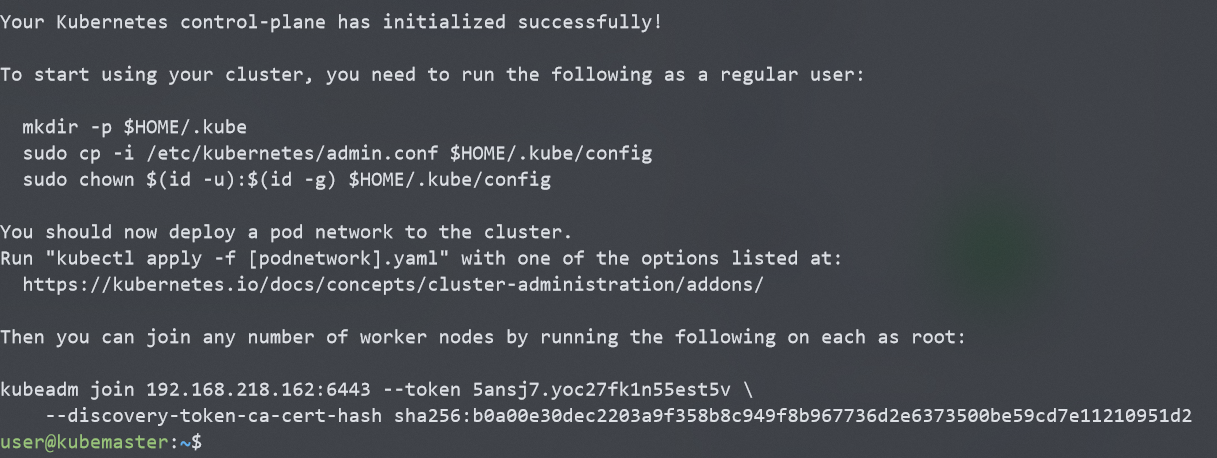
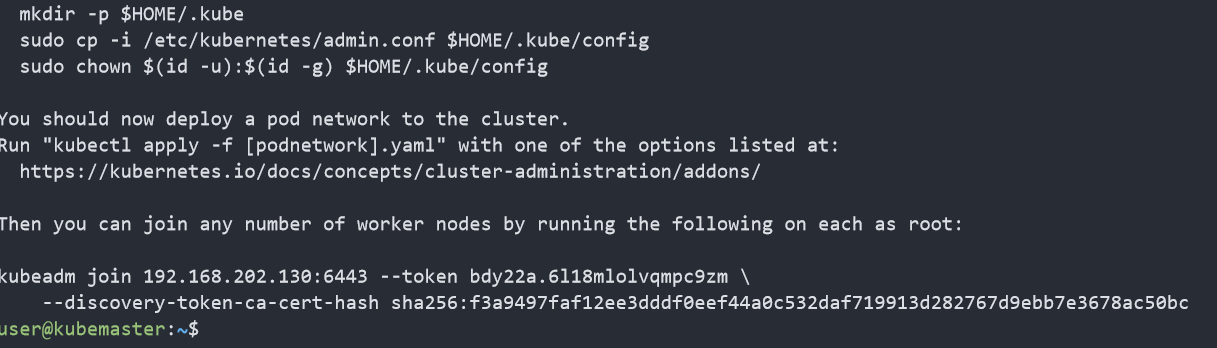
update

diff --git a/Docker&K8s/note3/note.md b/Docker&K8s/note3/note.md
@@ -11,27 +11,31 @@
 	<tr>
         <td>user</td>
         <td>kubemaster</td>
-        <td>192.168.218.162</td>
+        <td>192.168.202.130</td>
 	</tr>
     <tr>
         <td>user</td>
-        <td>kubework1</td>
-        <td>192.168.218.159</td>
+        <td>kubeworker1</td>
+        <td>192.168.202.128</td>
 	</tr>
 	<tr>
         <td>user</td>
-        <td>kubework2</td>
-        <td>192.168.218.158</td>
+        <td>kubeworker2</td>
+        <td>192.168.202.129</td>
 	</tr>
 </table>
 
 + 系统版本 UbuntuServer 16.04LTS
 
-+ 在每个节点上配置好主机名映射
++ 注意，虚拟机的处理器个数要设置为2个
+
++ 在每个节点的<code>/etc/hosts</code>文件中上配置好主机名映射
 
   ![image](./images/hosts.png)
 
+  配置好后使用ping来测试主机之间是否可以正常通讯：
   
+  ![image](./images/ping.png)
 
 ## 节点配置
 
@@ -39,6 +43,13 @@
 
   ![image](./images/docker.png)
 
++ 将用户加入Docker用户组，然后重启机器或者注销重新登陆
+
+  ``` shell
+user@kubemaster:~$ sudo usermod -aG docker $USER
+  user@kubemaster:~$ sudo reboot
+```
+  
 + docker安装测试
 
   + 登陆docker账户
@@ -55,24 +66,26 @@
 
     在/etc/apt/source.list.d/路径下创建文件kubernetes.list，写入中科大的镜像地址**deb http://mirrors.ustc.edu.cn/kubernetes/apt kubernetes-xenial main**。然后执行apt-get update
 
-  + 软件安装
+    ![image](./images/source.png)
 
+  + 软件安装：在每个机器上安装kubernetes组件，注意版本号，选用较为稳定的1.15版本
+  
     ``` shell
-    #最好指定版本
-    sudo apt-get install kubectl=1.15.3-00 kubeadm=1.15.3-00 kubelet=1.15.3-00 -y -allow-unauthenticated
+    # 指定版本为1.15
+    sudo apt-get install kubectl=1.15.3-00 kubeadm=1.15.3-00 kubelet=1.15.3-00 -y --allow-unauthenticated
     ```
     
-    ![image](./images/install.png)
+    ![image](./images/validate.png)
+    
+  + 在所有节点上禁用swap
+  
+    ``` shell
+    sudo swapoff -a
+    ```
 
 ## 主节点配置
 
 做好准备工作和软件安装的工作后，需要进行主节点的配置。然后再将worker结点加入进去。
-
-+ 禁用swap
-
-  ``` shell
-  sudo swapoff -a
-  ```
 
 + 使用kubeadm初始化master结点
 
@@ -83,63 +96,66 @@
   参数来指定镜像仓库。使用阿里云的镜像仓库进行安装。
 
   ```shell
-  sudo kubeadm init --image-repository registry.aliyuncs.com/google_containers --pod-network-cidr=192.168.0.0/16 --apiserver-advertise-address=192.168.218.162
+  sudo kubeadm init --image-repository registry.aliyuncs.com/google_containers --kubernetes-version v1.15.3 --pod-network-cidr=192.168.0.0/16
   ```
 
   ![image](./images/kubeadm-init-success.png)
 
-  安装成功后，会给出如何将worker结点加入集群的指令。
+  安装成功后，会给出如何将worker结点加入集群的指令，最好将这个指令储存下来。
 
-+ 配置kubectl
++ 配置kubectl，使得非root用户也可以使用kubectl
 
   ```shell
   sudo cp /etc/kubernetes/admin.conf $HOME/
   sudo chown $(id -u):$(id -g) $HOME/admin.conf
   export KUBECONFIG=$HOME/admin.conf
   ```
+  
+  验证:
+  
+  ![image](./images/validate2.png)
+  
++ 配置网络插件
+
+   为了让Pods间可以相互通信，我们必须安装一个网络插件，并且必须在部署任何应用之前安装，**CoreDNS**也是在网络插件安装之后才会启动的。 安装之前，查看pods的状态
+
+  ![image](./images/pods.png)
+
+  可以看到coredns的状态是pending，这是因为没有安装网络插件，通过如下的命令安装网络插件：
+
+  ``` shell
+  kubectl apply -f https://docs.projectcalico.org/v3.3/getting-started/kubernetes/installation/hosted/rbac-kdd.yaml
+  kubectl apply -f https://docs.projectcalico.org/v3.3/getting-started/kubernetes/installation/hosted/kubernetes-datastore/calico-networking/1.7/calico.yaml
+  # 上面的calico.yaml会去quay.io拉取镜像，如果无法拉取，可使用下面的国内镜像
+  kubectl apply -f http://mirror.faasx.com/k8s/calico/v3.3.2/rbac-kdd.yaml
+  kubectl apply -f http://mirror.faasx.com/k8s/calico/v3.3.2/calico.yaml
+  ```
+
+  ![image](./images/network-plugin.png)
+
+  一段时间后，再次查看pods的运行情况:
+
+  ![image](./images/pods2.png)
+
+  coredns服务也变为了running，网络插件安装成功。
 
 ## 加入Worker节点
 
-在两个woker节点上执行指令：
+在两个woker节点上用**root**用户执行加入指令：
 
 ```shell
-sudo kubeadm join 192.168.218.162:6443 --token updefu.hb2b9zomlko91huy --discovery-token-ca-cert-hash sha256:c761c77c26f61fc9065db578c274ff99c0494ab7a3a65a1a8a4d5aa4741fc4ac
+root$: kubeadm join 192.168.202.130:6443 --token bdy22a.6l18mlolvqmpc9zm --discovery-token-ca-cert-hash sha256:f3a9497faf12ee3dddf0eef44a0c532daf719913d282767d9ebb7e3678ac50bc
 ```
 
-执行完成后，在主节点上执行查看集群中节点的命令可以看到如下的输出：
+执行完成后，等待一会，在主节点上执行查看集群中节点的命令可以看到如下的输出：
 
-![image](./images/workeradd.png)
+![image](./images/nodes.png)
 
 说明worker结点加入成功。
 
-## 网络插件配置
-
-将worker节点插入集群之后，在master结点上执行指令：
-
-```shell
-sudo kubectl get pods --all-namepsaces
-```
-
-可以查看集群上所有的pod，结果如下：
-
-![image](./images/kubectl-pods-pending.png)
-
-有关coredns的两个pods处于pending状态。需要进行网络插件的安装，这里选择的是calico，安装指令如下：
-
-```shell
-kubectl apply -f https://docs.projectcalico.org/v3.1/getting-started/kubernetes/installation/hosted/rbac-kdd.yaml
-kubectl apply -f https://docs.projectcalico.org/v3.1/getting-started/kubernetes/installation/hosted/kubernetes-datastore/calico-networking/1.7/calico.yaml
-```
-
-网络插件安装完成后，再次查看所有pods的运行情况：
-
-![image](./images/kubectl-pods-running.png)
-
-所有的pods都是running状态，集群的基本功能搭建完成。
-
 ## 可视化工具(Dash board)安装
 
-Kubernetes Dashboard 是一个管理Kubernetes集群的全功能Web界面，旨在以UI的方式完全替代命令行工具（kubectl 等）。由于该工具的镜像仓库也被墙了，所以使用国内镜像安装：
+Kubernetes Dashboard 是一个管理Kubernetes集群的全功能Web界面，旨在以UI的方式完全替代命令行工具（kubectl 等）。由于该工具的镜像仓库也被墙了，所以使用国内镜像安装，在Master结点上执行：
 
 ```shell
 kubectl apply -f http://mirror.faasx.com/kubernetes/dashboard/master/src/deploy/recommended/kubernetes-dashboard.yaml
